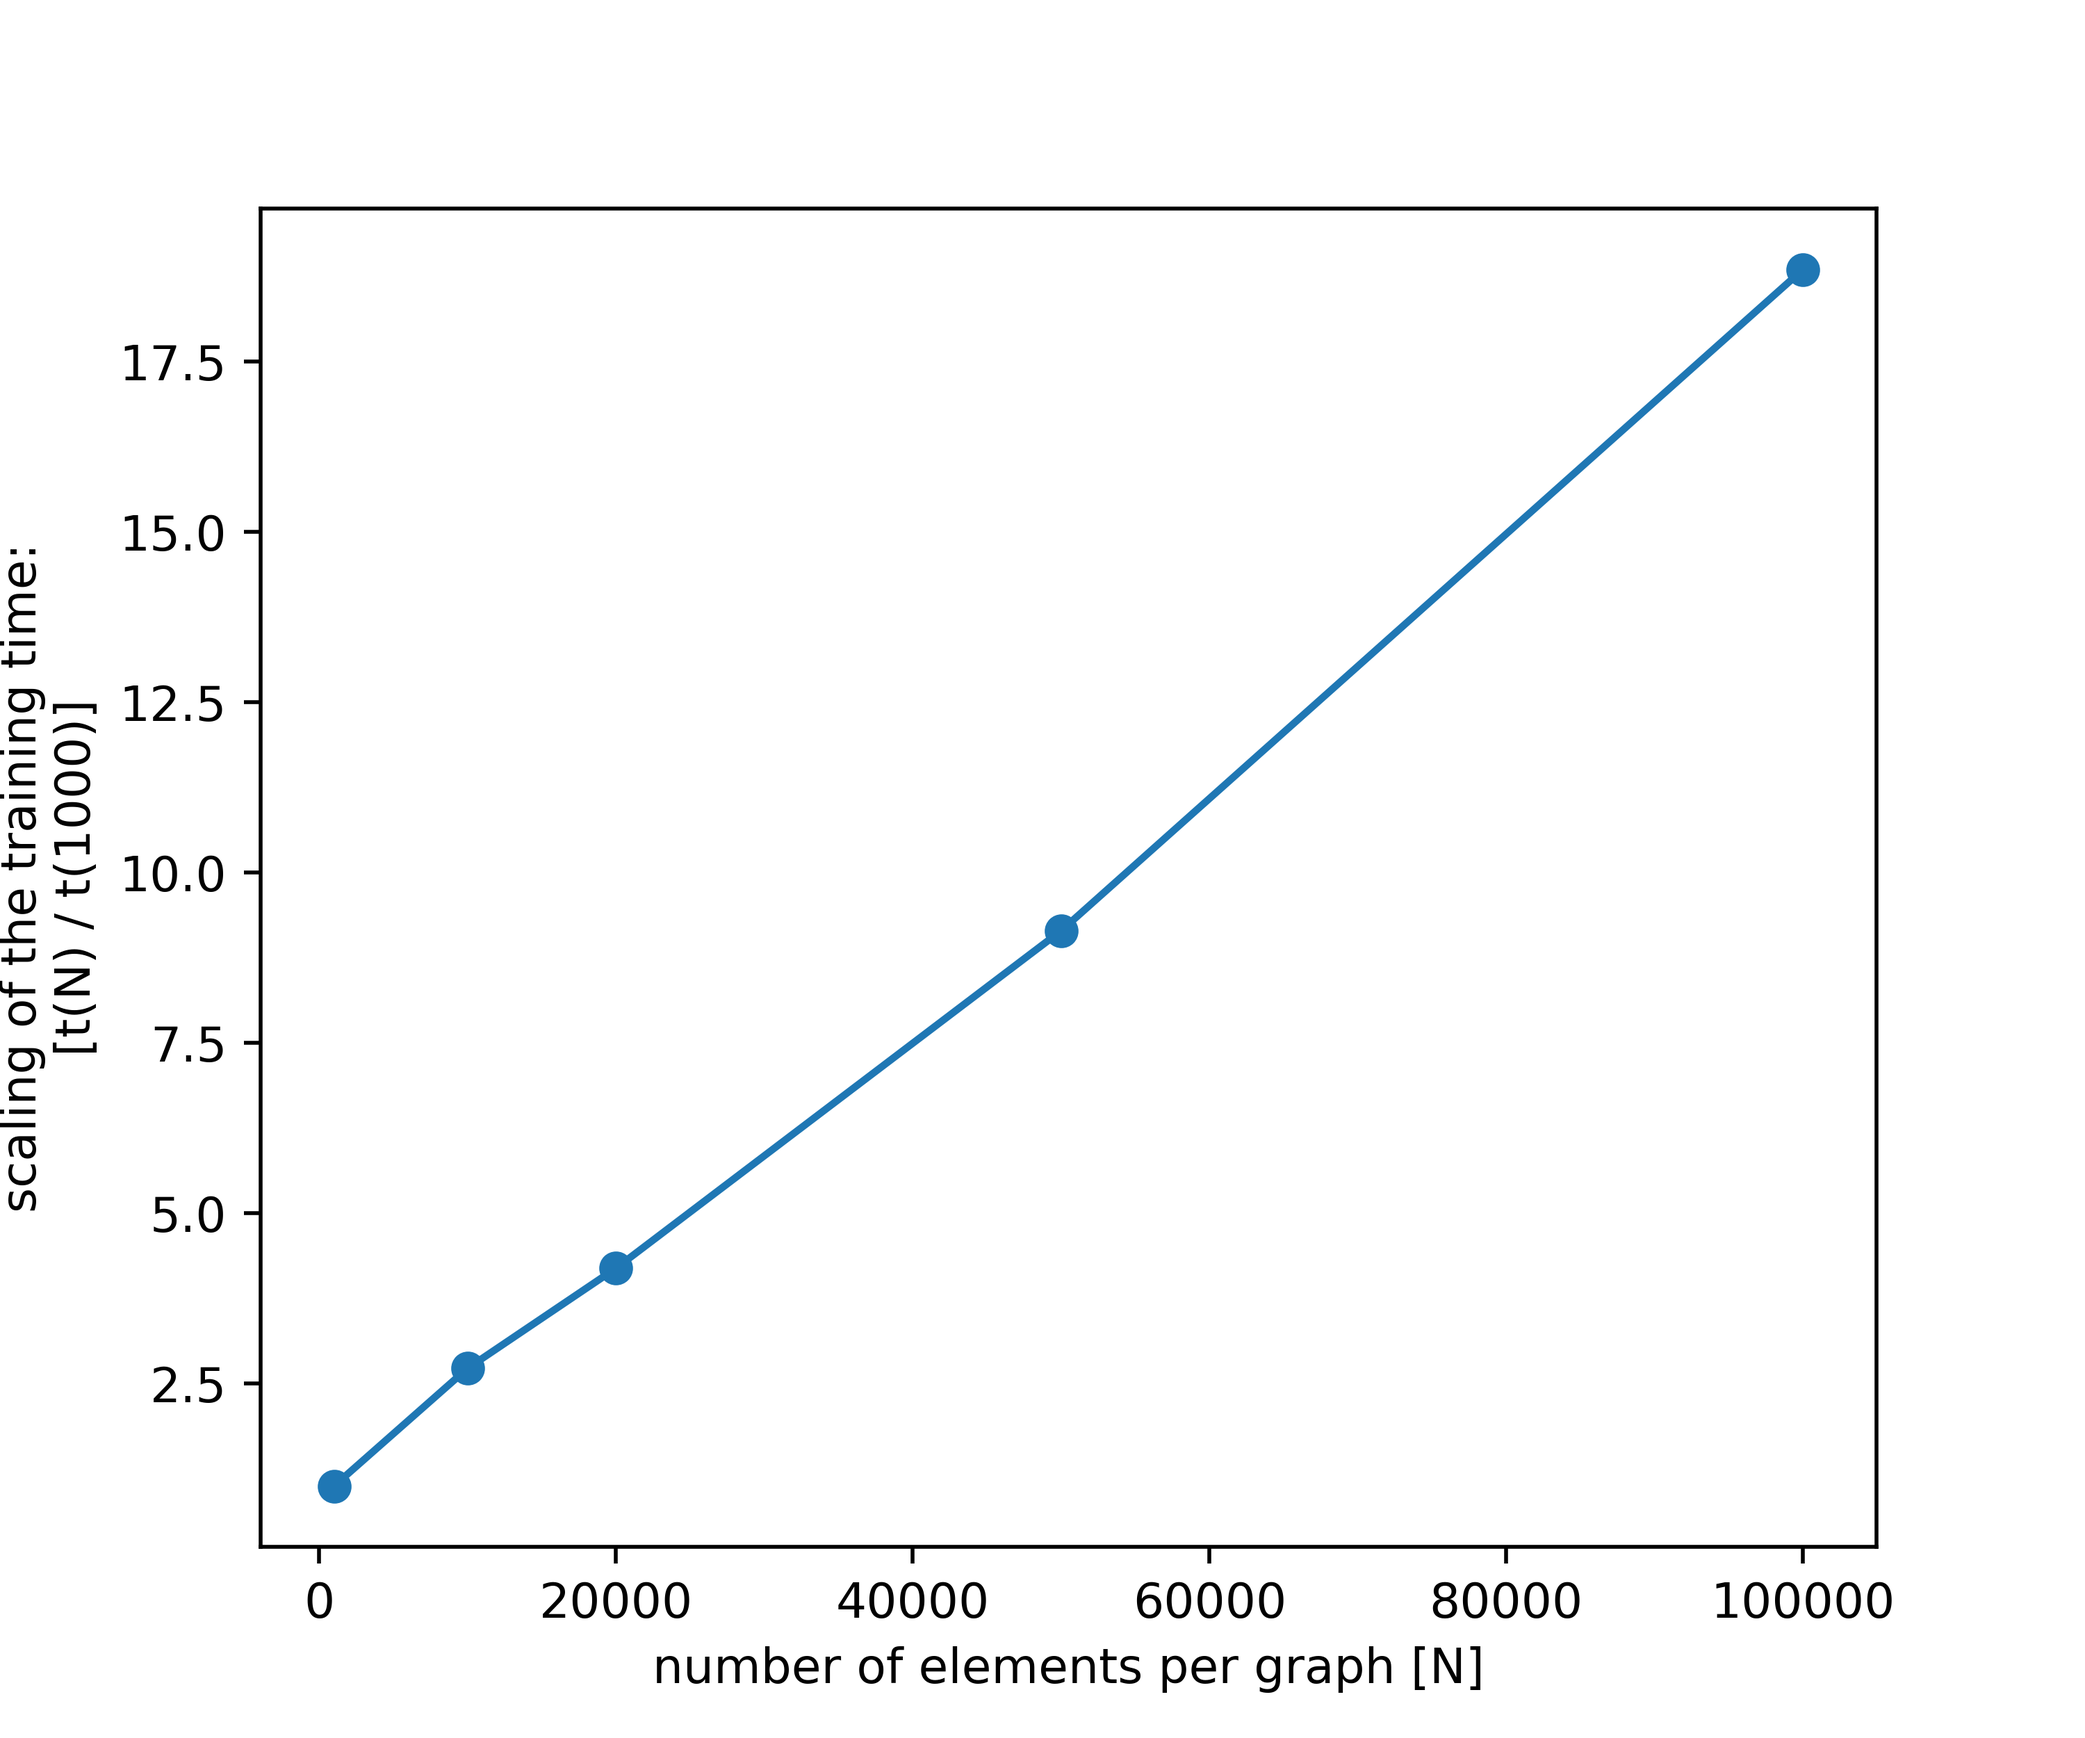
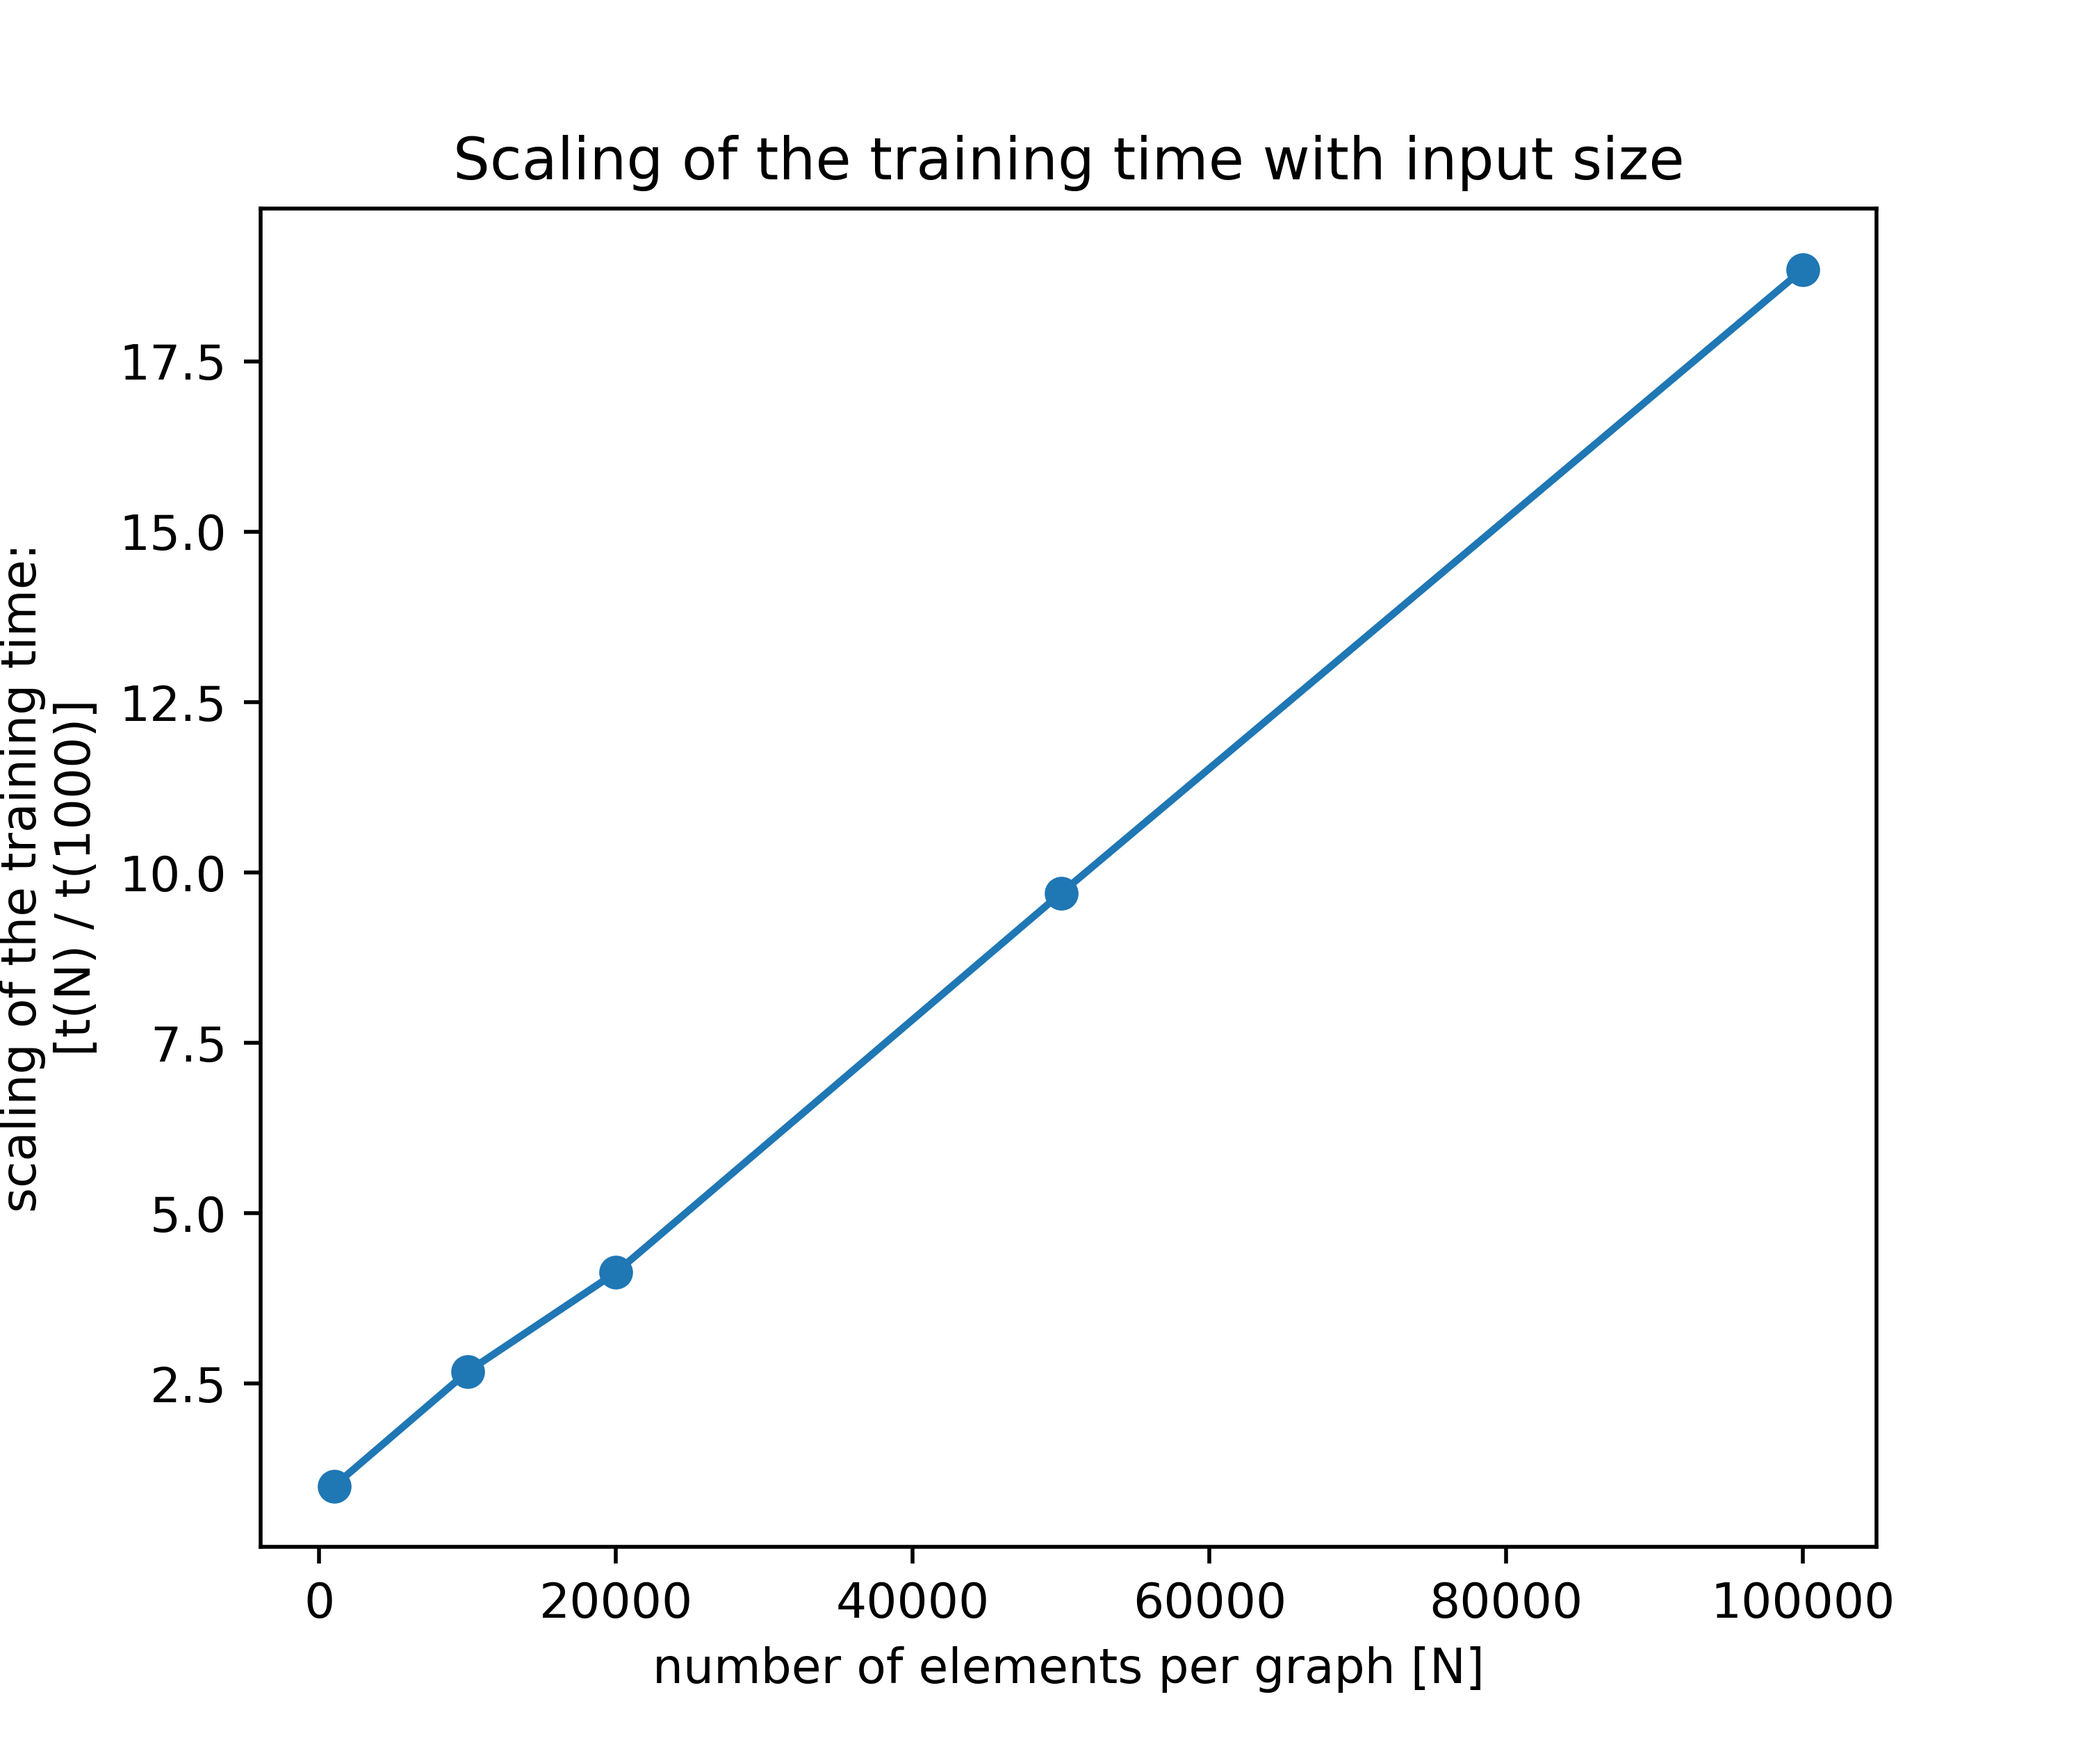
up

diff --git a/test/test_models.py b/test/test_models.py
@@ -80,7 +80,8 @@ def test_timing(bin_size=100, max_num_bins=1000):
     plt.plot(num_samples, times, marker="o")
     plt.xlabel("number of elements per graph [N]")
     plt.ylabel("scaling of the training time:\n[t(N) / t(1000)]")
-    plt.savefig("timing.png", dpi=500)
+    plt.title("Scaling of the training time with input size")
+    plt.savefig("images/timing.png", dpi=500)
 
 def generate_event(mean_num_particles_per_event=1000, max_particle_energy=10.0, deposit_fraction=0.1, lowest_energy_threshold=0.5, deposit_pos_spread=0.02):
     particles = []
@@ -170,17 +171,20 @@ def test_graph_mode():
     plt.figure(figsize=(6, 5))
     plt.imshow(computed_dm, interpolation="none", cmap="binary")
     plt.colorbar()
-    plt.savefig("test.png", dpi=500)
+    plt.title("Learned adjacency matrix")
+    plt.savefig("images/dm.png", dpi=300)
 
     plt.figure(figsize=(5, 5))
     plt.scatter(X[0, :, 1], X[0, :, 2], marker="o", color="red", s=2.0)
-    plt.savefig("graph_noedge.png", dpi=500)
+    plt.title("Input set (no edges)")
+    plt.savefig("images/graph_noedge.png", dpi=300)
 
     plt.figure(figsize=(5, 5))
     rows, cols = np.where(computed_dm>0)
     edges = np.stack([rows, cols])
     plt.plot(X[0, edges, 1], X[0, edges, 2], linestyle="-", marker="o", color="black", markerfacecolor="red", markeredgecolor="red", markersize=2.0, lw=0.1, alpha=0.2)
-    plt.savefig("graph.png", dpi=500)
+    plt.title("Learned graph structure")
+    plt.savefig("images/graph.png", dpi=300)
 
     print("graph mode / keras training successful")
 

diff --git a/README.md b/README.md
@@ -7,9 +7,10 @@ Efficiently generate sparse graph adjacency matrices using tensorflow, including
  - Output: a sparse adjacency matrix with shape `(N_batch, N_elem, N_elem)`, the elements of which can be differentiated with respect to the input
  - Parameters: bin size M, number of neighbors K
 
-1. Each element in the input set is assigned into a bin using locality-sensitive hashing
-2. In each bin, we run a dense k-nearest neighbors algorithm
-3. The neighbors found in each bin are propagated to the final sparse adjacency matrix
+- [x] Work on a modest GPU (e.g. 2060S) or a CPU
+- [x] Uses only native TF 2.x operations
+- [x] Better than quadratic scaling
+- [x] Fast evaluation and efficient memory use, up to 100k+ elements
 
 
 ```python
@@ -39,12 +40,20 @@ with tf.GradientTape(persistent=True) as g:
 grad = g.gradient(ret, dense_transform.weights)
 ```
 
+On the following images, you see the input set on the left and the learned graph structure (edges) on the right.
 <p float="left">
   <img src="images/graph_noedge.png" alt="Input set without edges" width="300"/>
   <img src="images/graph.png" alt="Genetated graph with edges" width="300"/>
 </p>
 
+Here, we show the learned distance matrix on a toy clustering problem on the left and the scaling of the training time on the right.
 <p float="left">
-  <img src="images/test.png" alt="Generated adjacency matrix" width="300"/>
+  <img src="images/dm.png" alt="Generated adjacency matrix" width="300"/>
   <img src="images/timing.png" alt="Scaling of the complexity with input size" width="300"/>
 </p>
+
+
+Based on the Reformer [1] and GravNet [2] papers.
+
+[1] https://arxiv.org/abs/2001.04451
+[2] https://arxiv.org/abs/1902.07987
